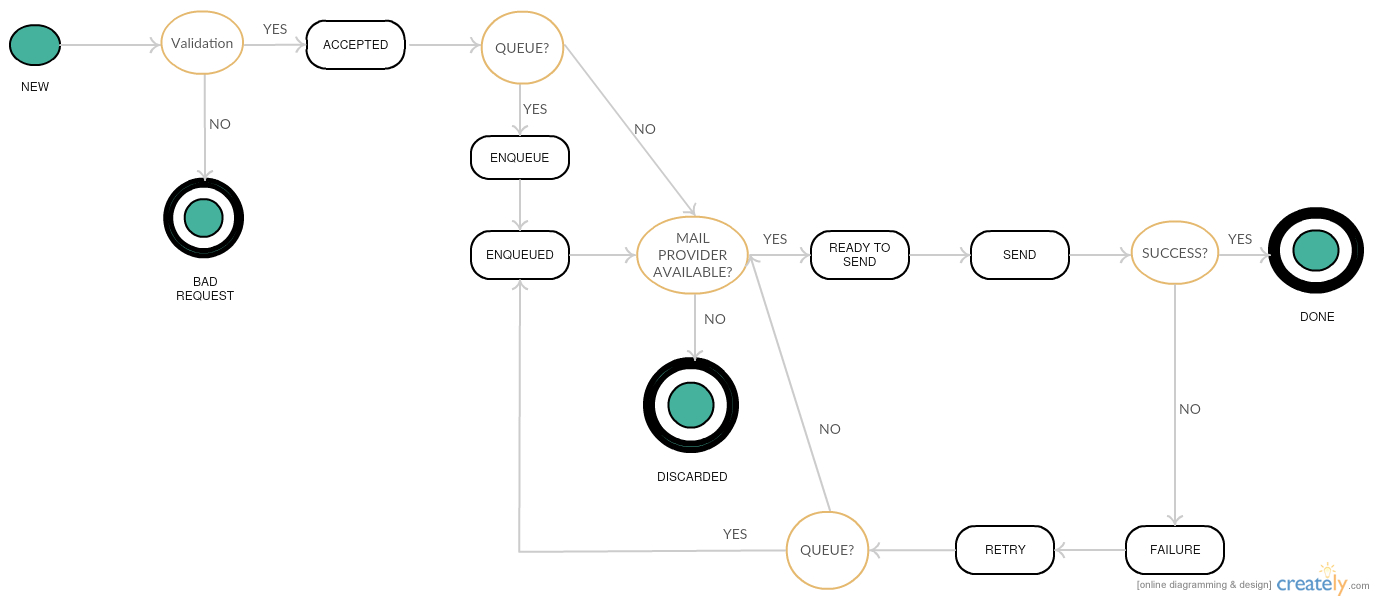
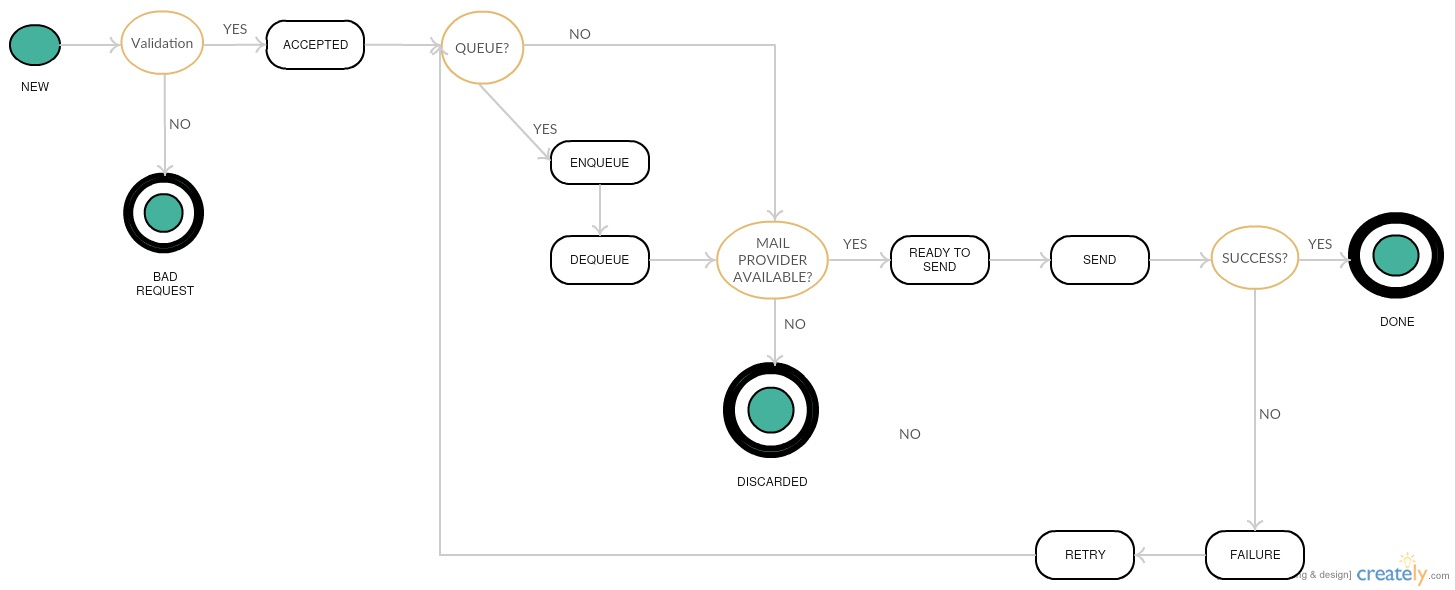
update doc plus cosmetic changes

diff --git a/app/templates/events_details.html b/app/templates/events_details.html
@@ -10,7 +10,8 @@
             {% set list = event.split('/') %}
             {% set mail_id = list[-3] %}
             {% set event_id = list[-1] %}
-            <li><a href='{{ url_for('main.event_detail', mail_id=mail_id, event_id=event_id) }}'>{{ event }}</a></li>
+            {% set url = url_for('main.event_detail', mail_id=mail_id, event_id=event_id, _external=True) %}
+            <li><a href={{ url }}>Event id: {{ event_id }}</a></li>
         {% endfor %}
 
     </div>

diff --git a/app/main/views.py b/app/main/views.py
@@ -2,8 +2,11 @@ from flask import render_template, redirect
 from .forms import SendMailForm, MailForm, EventForm
 from . import main
 from ..api_1_0.mail.views import *
+from .. import cache
+
 import json
 import requests
+
 
 headers = {'Content-Type': 'application/json'}
 
@@ -37,6 +40,7 @@ def confirm():
 
 
 @main.route('/details/mails/<int:id>', methods=['GET'])
+@cache.memoize(timeout=120)
 def mail_details(id):
     response = requests.get(url_for('api.get_mail', id=id, _external=True), headers=headers)
     if response.ok:
@@ -51,6 +55,7 @@ def mail_details(id):
 
 
 @main.route('/details/mails/<int:id>/events/', methods=['GET'])
+#@cache.memoize(timeout=10)
 def events_details(id):
     response = requests.get(url_for('api.get_events', id=id, _external=True), headers=headers)
     if response.ok:
@@ -60,6 +65,7 @@ def events_details(id):
 
 
 @main.route('/details/mails/<int:mail_id>/events/<int:event_id>', methods=['GET'])
+@cache.memoize(timeout=120)
 def event_detail(mail_id, event_id):
     response = requests.get(url_for('api.get_event', mail_id=mail_id, event_id=event_id, _external=True),
                             headers=headers)

diff --git a/app/api_1_0/event/view.py b/app/api_1_0/event/view.py
@@ -7,9 +7,9 @@ from ... import db
 from ... import cache
 
 
-@api.route('/mails/<int:id>/events/')
+@api.route('/mails/<int:id>/events/', methods=['GET'])
 @json
-@cache.cached(timeout=10)
+@cache.memoize(timeout=10)
 @collection(Event)
 def get_events(id):
     mail = Mail.query.get_or_404(id)
@@ -31,9 +31,9 @@ def new_event(id):
         abort(400)
 
 
-@api.route('/mails/<int:mail_id>/events/<int:event_id>')
+@api.route('/mails/<int:mail_id>/events/<int:event_id>', methods=['GET'])
 @json
-@cache.cached(timeout=120)
+@cache.memoize(timeout=120)
 def get_event(mail_id, event_id):
     event = Event.query.get_or_404(event_id)
     if event.mail_id() == mail_id:

diff --git a/app/api_1_0/mail/views.py b/app/api_1_0/mail/views.py
@@ -51,7 +51,7 @@ def new_mail():
 
 
 @api.route('/mails/<int:id>', methods=['GET'])
-@cache.cached(timeout=120)
+@cache.memoize(timeout=120)
 @jasonify
 def get_mail(id):
     return Mail.query.get_or_404(id)

diff --git a/README.md b/README.md
@@ -4,8 +4,8 @@
 
 # M3rcury Email Service
 
-The M3rcury project presents a solution for the [Uber© Email Service](https://github.com/uber/coding-challenge-tools/blob/master/coding_challenge.md) coding challenge. The challenge consists in design and develop a email service that accepts the necessary information from the users and sends emails.
-To provide service availability, the service uses internally two email service providers.
+M3rcury project presents a solution for the [Uber© Email Service](https://github.com/uber/coding-challenge-tools/blob/master/coding_challenge.md) coding challenge. The challenge consists in design and develop a reliable and fault tolerant mail service able to
+send users' emails. To guarantee service availability, we use two external mail service providers.
 
 
 Live on [Heroku](https://m3rcury.herokuapp.com).
@@ -15,12 +15,13 @@ Check my [profile](http://ie.linkedin.com/in/prisconapoli)
 ## Overview
 
 M3rcury is a back-end application. The service is exposed through a RESTful API compliant with the Internet protocols HTTP and JSON.
-There is also a minimal front-end, to make easy for the average users send a mail filling a form in the [live site](https://m3rcury.herokuapp.com).
+There is also a simple front-end, in order to allow the users to send messages filling a web form in the [live site](https://m3rcury.herokuapp.com).
 
-The backend validates and dispatch the email received throught the RESTful API, keeps track of the status of every message processed and implements a retry policy in case of failures. [Mailgun](https://sendgrid.com) and [Sendgrid](https://sendgrid.com) are the email service providers.
-In order to increase th eresponse time and the scalability of the system, the application can be configured to use a task queue to distribute the load across the workers.
+The backend validates and dispatch the email received through the RESTful API, keeps track of the status of every message processed and implements a retry policy in case of failures. [Mailgun](https://sendgrid.com) and [Sendgrid](https://sendgrid.com) are the email service providers.
+The system uses a task queue to distribute the load across the workers to guaranteed load distribution when the number of the incoming requests increases.
 
-The frontend is minimal, it consists of two web pages, respectively to submit a new email, and get the links to explore the status information. The next step will be add real-time views and a better CSS.
+The frontend is made of static web pages which enable the submission of  new messages and retrieve the status information.
+The next step will be add real-time views and a better CSS.
 
 #### Installation/deployment
 - Checkout the git repository
@@ -185,12 +186,10 @@ coverage report -m --omit='venv/*,*config.py,test_api.py,*view.py,*views.py'
 #### Profiling
 Run manage.py with the option *profile* to find bottlenecks in the application
 
-```
-python manage.py profile
-```
+``` python manage.py profile ```
 
 #### Shell
-Run manage.py with the option *shell* to have access to a Python shell. Is useful to set up the database, cronjobs, and other command-line tasks that belong outside the web application itself.
+Lunch  ```manage.py``` with the option *shell* to have access to a Python shell. Is useful to set up the database, cronjobs, and other command-line tasks that belong outside the web application itself.
 
 ```
 python manage.py shell
@@ -201,14 +200,14 @@ If I had more time, I wish to do the following improvements:
 
 - **email**: add support for cc,bcc, html content, small attachment (e.g. up to 5 MB), jumbo mail (e.g. with dropbox or google drive integration)
 - **real-time views**: track the mail status in real-time, monitor the average load of the system, arrival rate, average processing time, spending time in the queue
-- **event-driven system**: replace SQLAlchemy and the task queue with a complete publish subscribe solution, e.g. kafka or AWS Kinesis
+- **event-driven system**: replace SQLAlchemy and the task queue with a complete publish subscribe solution, e.g. kafka
 - **dynamic dispatching**: introduce different classes of requests (e.g.  text only message, with html, small or large attachment,  multiple recipients) and have different pool of workers dedicated to each class
 - **retry policy**: define a strategy to allow the user to reprocess a messages accepted by the system but not delivered due a failure of all the mail providers, e.g. bad recipient address
 
 #### Things left out
-Due lack of time I didn't create the web pages to track the progress of every request in real time. The idea is collect all the events related to a mail, and show them along with time information and delivery status. It can be done in AJAX and the flask extension Flask-SocketIO.
+Due lack of time I didn't create dynamic web pages to track the progress of every request in real time. The idea is collect all the events related to a mail, and show them along with time information and delivery status. It can be done in AJAX and the flask extension Flask-SocketIO.
 
-Moreover, I was unable to add a command in *manage.py* to exectue the test, e.g. 
+Moreover, I was unable to add a command in *manage.py* to execute the test, e.g.
 ```
 python manage.py test 
 python manage.py test coverage
@@ -216,7 +215,7 @@ python manage.py test coverage
 This is a limitation of Flask-Scripts which can't run the test with multithread mode enabled.
 
 #### Service limitation
-**Mailgun** requires a list of *Authorized Recipients*. All the emails to Unknown address will be discarded.
+**Mailgun** requires a list of *Authorized Recipients*. All the emails to *Unknown address* will be discarded.
 **Celery + Redis**: the task queue is disabled on Heroku. It was necessary update to a billable plan. User can test it in the development environment running the scripts in two separate windows:
 ```
     ./run_redis.sh
@@ -228,31 +227,31 @@ This is a limitation of Flask-Scripts which can't run the test with multithread 
 I have designed M3rcury with the following goals:
 - availability: the service should be accessible across Internet, e.g. RESTful API, HTTP + JSON
 - scalability:  should be easy take advantage of additional computational/storage resources, or have many teams of developers that works on different parts of the application
-- reliablility: define a retry policy in case of failures, handle graceful degradation
-- devops friendly: should be easy deploy and monitoring the status of the application
+- reliability: define a retry policy in case of failures, handle graceful degradation
+- operational friendly: should be easy deploy and monitoring the status of the application
 - security: allows connections over https, don't expose private keys
 
-The first step was define a **mail sending model**, where the process of send an email has been split in a series of steps(or events). Look at the image below:
+As first step I defined a model for to describe the process of **send an email**:
 
 ![alt text][mail_sending_model]
 
 [mail_sending_model]: https://github.com/prisconapoli/mercury/blob/master/images/mail_model.jpg
 
-With this model, I've started to investigate what kind of components were required to perform these steps:
-- validation can be done in the RESTFul API
+With this model, I moved towards a scratch description of the components required for each steps:
+- validation can be done by the RESTFul API
 - a dispatcher can select the mail provider and retry in case of failures
-- a task queue can be used to distribute the load, but we need guarantee the built-in persistance
-- is better to have indipendent workers for every mail service providers, hopefully with many accounts
+- a task queue can be used to distribute the load, but we need guarantee the built-in persistency
+- will be nice have many workers for different mail service providers, hopefully with many accounts
 
 An important goal was design an *observable* system. Basically, it should be possible keep track of every decision taken inside the application, and answer questions like:
-- when this email entered the system? How much time it taken to delivery it?
+- when this email entered the system? How much time taken to delivery it?
 - why the email has not been delivered to the recipient? Was a validation failure? Maybe the task queue was down?
-- what are the mail providers choosen by the dispatcher to serve a particular message?
+- what are the mail providers choosed by the dispatcher to serve a particular message?
 - what is the average time spent in the queue?
 - what is the fastest mail provider?
 - what are the failure rates of the mail providers?
 
-So my decision was include in the API interface also the functionalities to store and retrieve the events for a particular message.
+So my decision was include in the API interface the endpoints to store and retrieve the events for a particular message.
 
 #### RESTful API
 
@@ -266,14 +265,14 @@ So my decision was include in the API interface also the functionalities to stor
 | GET         | http[s]://[hostname]/api/v1.0/mails/[mail_id]/events/[event_id] | Retrieve an event      |
 
 
-Below the models used in SQLAlchemy to track informartion about an email and the correlated events:
+Below the models used in SQLAlchemy to track the mail details and the corresponding events:
 
 #### Mail Model
 | field     | description            |
 |-----------|------------------------|
 | id        | unique identifier      |
 | sender    | sender address         |
-| recipient | recipient address      |
+| recipients | recipients address      |
 | subject   | subject of the message |
 | content   | message content        |
 | events    | link to events         |
@@ -290,15 +289,17 @@ Below the models used in SQLAlchemy to track informartion about an email and the
 
 
 ### Dispatcher and retry policy
-The dispatching mechanism is straightforward. Every request carries a list (called attempts) containing the name of previous failed attempts to send the message. An empty list identifies a new request, while a no-empty list identifies a message that has not been dispatched for some reason.
-If is a new message, the mail providers is selected it randomly and the value is added in attempts . However, if the list is not empty, the dispatcher will try to select a new providers that has not been used in the past.
+The dispatching mechanism is straightforward. Every request carries a list (called attempts) containing the name of all the mail services that have failed to send the message. An empty list identifies a new request, while a no-empty list identifies a message that has not been dispatched for some reason.
+If is a new message, the mail providers is selected randomly and the value is added in attempts. However, if the list is not empty, the dispatcher will try to select a new providers that has not been used in the past.
+Every mail service is wrapped around a circuit breaker object, which monitors for failures. In this way, the dispatching will not try
+select a broken provider, e.g. network connection, wrong credentials.
 
-If no providers are available, the dispatcher log a new event 'DISCARDED' and no more attempts are done. 
+If a provider is not available to serve the current request, the dispatcher log a new event 'DISCARDED' and no more attempts are done.
 
-The choice to store the attempts can seem unusual, but it allows to have many stateless dispatcher in the application. When something goes wrong, the only thing that a dispatcher has to do is check the 'history' of the request to figure out what was wrong.
+The choice to store with the request also the list of the past attempts has a cost of space and bytes sent over the network, but it allows to have many stateless dispatcher in the application. When something goes wrong, the only thing that a dispatcher has to do is check the 'history' of the request to figure out what was wrong.
 
 ### Technology Stack
-As last step, I have investigated the best technologies to develop what I had in mind. I ended up to choose Python and the Flask microframework to build this initial version of M3rcury. Flask has the advantage to be easy to learn and largely adopted to build web applications. It is well documented (tons of tutorials, books and videos on-line) and well integrated with a large number of extensions to support typical use cases, e.g. web forms, databases, working queue, caching, test automation.
+I investigated different technologies to develop what I had in mind. I ended up to choose Python and the Flask microframework to build this initial version of M3rcury. Flask has the advantage to be easy to learn and largely adopted to build web applications. It is well documented (tons of tutorials, books and videos on-line) and well integrated with a large number of extensions to support typical use cases, e.g. web forms, databases, working queue, caching, test automation.
 
 Below is described the final technology stack:
 
@@ -311,14 +312,16 @@ Below is described the final technology stack:
 - SQLAlchemy (SQLite for development and testing, Postgres in production) to store mails and events
 - Celery + Redis for asynchronous task queue and built-in persistence
 - SendGrid + Mailgun as service providers
+- Circuit Breaker as service wrapper
+- Flask-Cache for view and function caching
 
 ###### Testing and Automation:
 - Flask-Script extension for automated tasks: database creation, start the service, profiling
 - Test automation, coverage tests, reports
 
 ###### Deployment
-- gunicorn as HTPP Server
+- gunicorn as HTTP Server
 - Heroku as public cloud environment
 
 ### Additional note
-If you wish to have a new feauture, collaborate on this project,  or just report a bug, please drop me a message with [LinkedIn](http://ie.linkedin.com/in/prisconapoli)
+If you wish to have a new feature, collaborate on this project,  or just report a bug, please contact me at [LinkedIn](http://ie.linkedin.com/in/prisconapoli)
